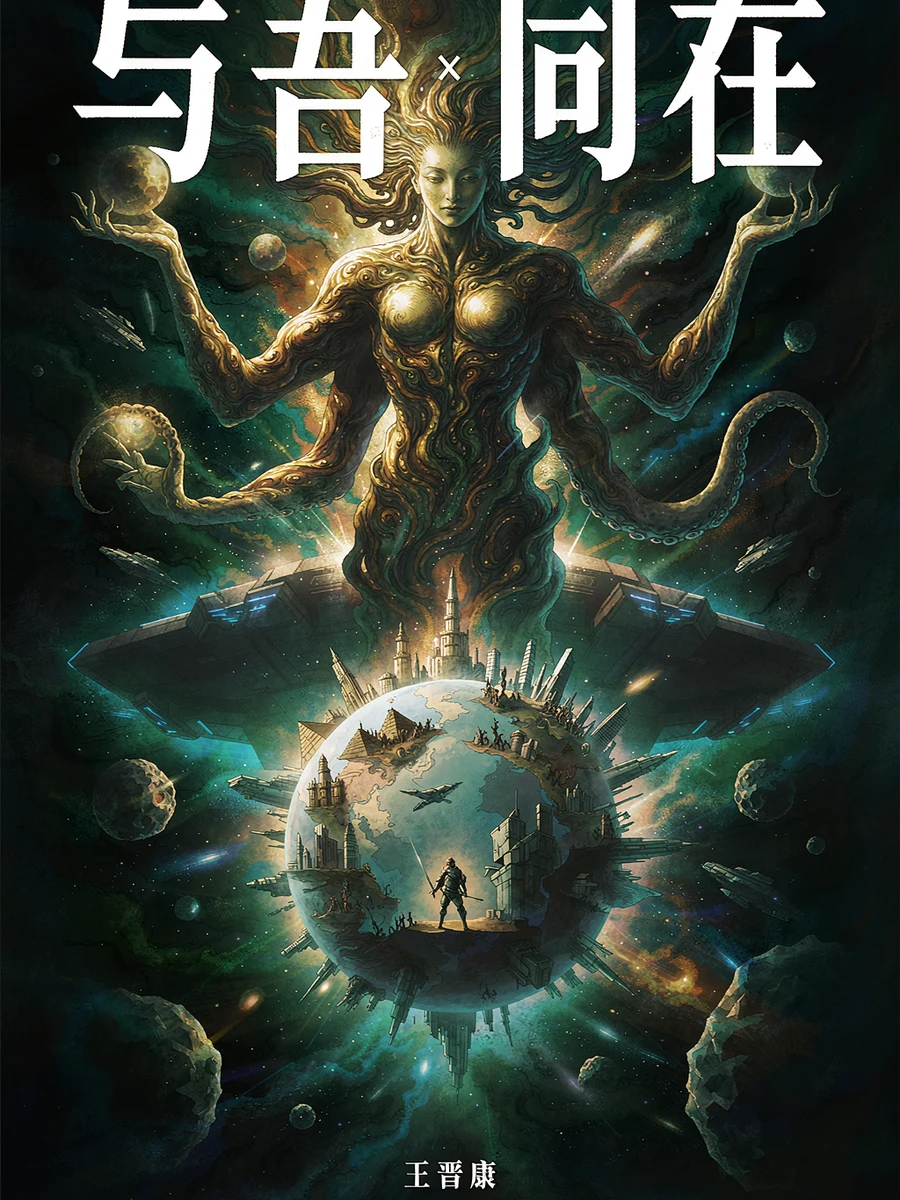
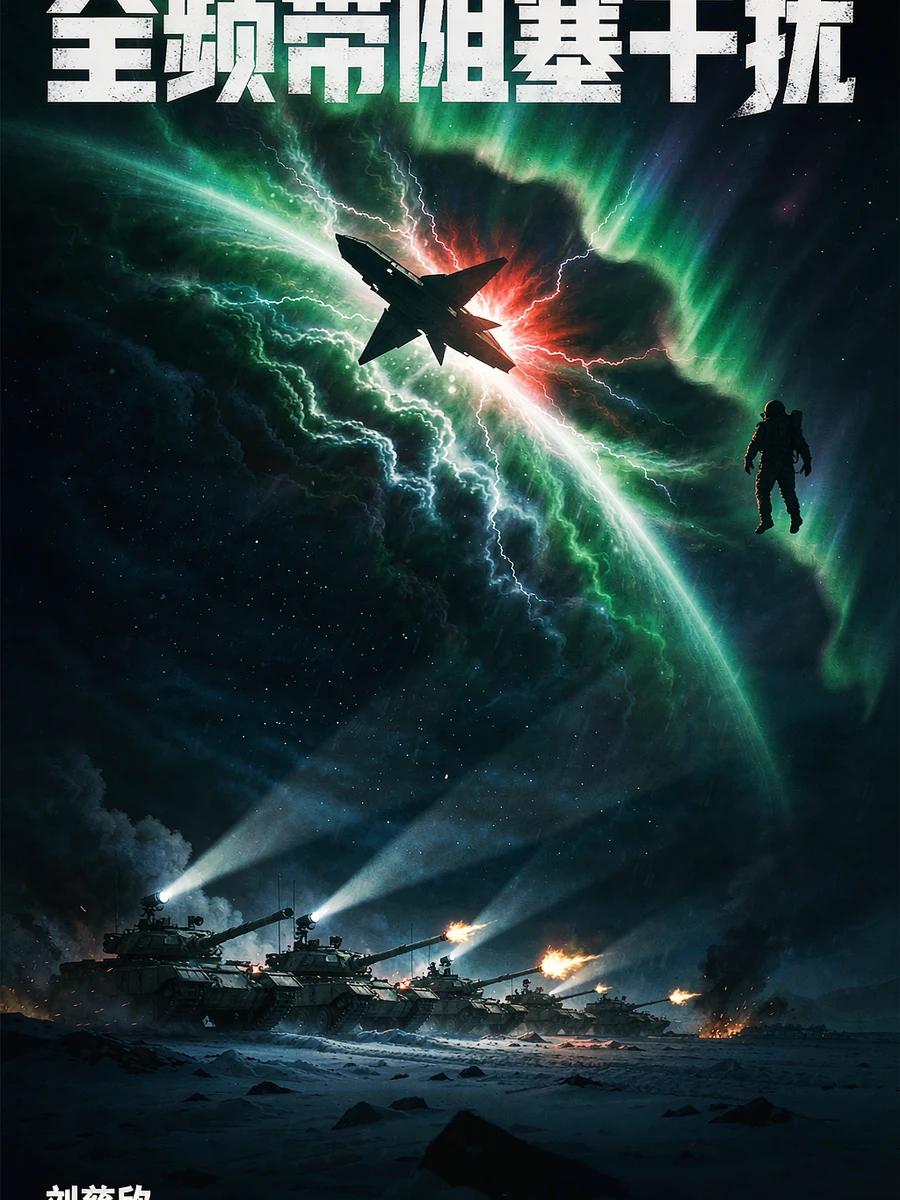
fix(covers+awards): 修复封面标题截断/互换 + 同步江波奖项
封面:
- 超新星纪元：重生成，标题完整
- 与吾同在 / 全频带阻塞干扰：两图内容互换，交换 webp 字节

作者页:
- 江波 zh/en 同步补 awards 机器之门与红石获奖，并补 zh/en 一致的 2016 银河最佳中篇

diff --git a/src/content/authors/zh/jiangbo.md b/src/content/authors/zh/jiangbo.md
@@ -10,6 +10,8 @@ awards:
   - "全球华语科幻星云奖"
   - "2015 全球华语科幻星云奖 最佳中篇（《湿婆之舞》）"
   - "2016 中国科幻银河奖 最佳中篇"
+  - "2019 中国科幻银河奖 最佳长篇（《机器之门》）"
+  - "2023 全球华语科幻星云奖 2022 年度长篇银奖（《红石》）"
 
 ---
 科幻作家、水污染防治工程师，硬科幻代表之一。以宏大的「银河之心」系列与《机器之道》《湿婆之舞》见长，擅写太空歌剧与文明演化，设定严密、视野辽阔，是中国新生代硬科幻的中坚。

diff --git a/src/content/authors/en/jiangbo.md b/src/content/authors/en/jiangbo.md
@@ -9,6 +9,9 @@ awards:
   - "Galaxy Award (China)"
   - "Xingyun Award (China)"
   - "2015 Chinese Nebula Award for Best Novella"
+  - "2016 Galaxy Award (China) for Best Novella"
+  - "2019 Galaxy Award (China) for Best Novel (The Gate of Machines)"
+  - "2023 Xingyun Award (China) Silver Prize for Best Novel (The Red Stone)"
 
 ---
 
